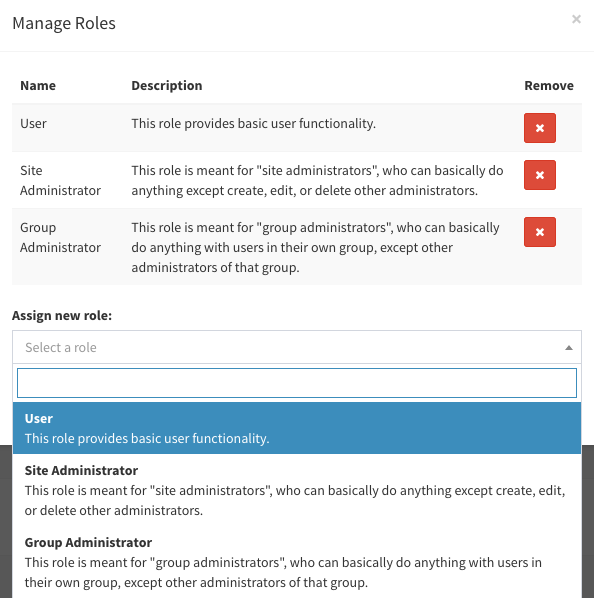
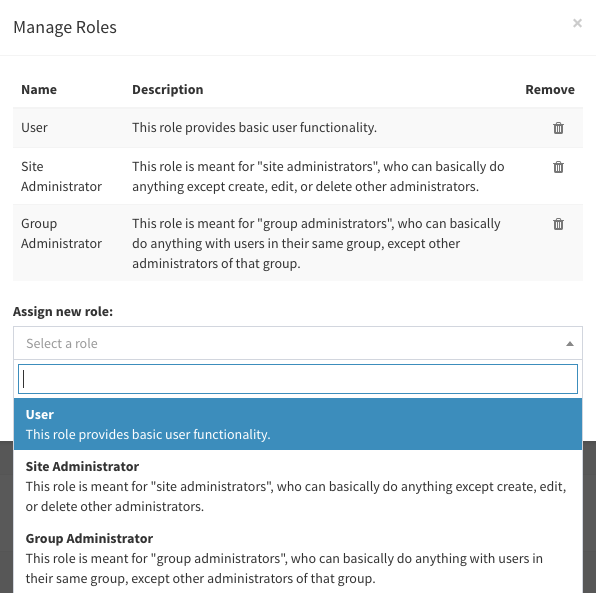
Document ufCollections

diff --git a/09.client-side-code/02.components/03.collections/docs.md b/09.client-side-code/02.components/03.collections/docs.md
@@ -1,0 +1,242 @@
+---
+title: Collections
+metadata:
+    description: The ufCollection widget provides a convenient interface for associating related or child entities with a single parent entity.
+taxonomy:
+    category: docs
+---
+
+The `ufCollection` widget provides a convenient interface for associating related or child entities with a single parent entity.  For example, you might want to associate a user account with one or more roles, or add multiple phone numbers or addresses to an employee.
+
+![ufCollection widget as used for the "user role" management interface.](/images/uf-collection.png)
+
+## Basic usage
+
+The basic markup for a collection widget consists of a table "skeleton" and, optionally, a `select` control for adding preexisting items to the collection.  These are wrapped together inside some sort of container element.  For example:
+
+```
+<div id="myOwls">
+    <table class="table table-striped">
+        <thead>
+            <tr>
+                <th>Species</th>
+                <th>Name</th>
+                <th>Remove</th>
+            </tr>
+        </thead>
+        <tbody>
+        </tbody>
+    </table>
+    <div class="padding-bottom">
+        <label>Adopt an owl:</label>
+        <select class="form-control js-select-new" type="text" data-placeholder="Select an owl">
+        <option></option>
+        </select>
+    </div>
+</div>
+```
+
+The `select` control should have the class `js-select-new`, which tells `ufCollection` that we should add a new row to the collection whenever a selection is made.  Internally `ufCollection` uses the [select2](http://select2.github.io/) library to create a beautiful, searchable dropdown menu.
+
+You'll notice that the table contains an empty `tbody` element.  By default, `ufCollection` will add new rows to the table inside this `tbody`.  This can be overridden by setting the `rowContainer` option to some other DOM element.
+
+To initialize the widget, simply call the `ufCollection` method on your container element:
+
+```
+$('#myOwls').ufCollection({
+    dropdown: {
+        ajax: {
+            url: site.uri.public + '/api/owls'
+        }
+    },
+    dropdownTemplate: $('#member-owls-select-option').html(),
+    rowTemplate: $('#member-owls-row').html()
+});
+```
+
+A typical use case will involve the following parameters:
+
+### `dropdown`
+
+This parameter contains the options that should be passed in when `ufCollection` initializes the `select2` control.  For large, dynamic collections of options, you will probably want to provide an AJAX data source with the `ajax` subkey.
+
+`ufCollection` will expect JSON data from an AJAX source, in the same format as that returned by the [Data Sprunjer](/database/data-sprunjing).  In particular, it should have a `rows` key that contains the collection of selectable options:
+
+```
+{
+    "count": 2,
+    "count_filtered": 2,
+    "rows": [
+        {
+            "id": 11,
+            "species": "Bubo scandiacus",
+            "description": "Snowy owls are native to Arctic regions in North America and Eurasia. Males are almost all white, while females have more flecks of black plumage. Juvenile snowy owls have black feathers until they turn white. The snowy owl is a ground nester that predominantly hunts rodents."
+        },
+        {
+            "id": 8,
+            "species": "Megascops asio",
+            "description": "This species is native to most wooded environments of its distribution and, more so than any other owl in its range, has adapted well to manmade development, although it frequently avoids detection due to its strictly nocturnal habits."
+        }
+    ]
+}
+```
+
+If you would like to use an alternative format for your source data, you can override the `dropdown.ajax.processResults` callback option:
+
+```
+processResults: function (data, params) {
+    var suggestions = [];
+    // Process the data into dropdown options
+    if (data && data.rows) {
+        jQuery.each(data.rows, function(idx, row) {
+            suggestions.push(row);
+        });
+    }
+    return {
+        results: suggestions
+    };
+}
+```
+
+Notice that this callback must always return a JSON object with a `results` key.
+
+### `dropdownTemplate`
+
+`ufCollection` uses [Handlebars](http://handlebarsjs.com/), a Javascript templating engine, to render the options that will be displayed in the dropdown menu.  The `dropdownTemplate` parameter should contain a valid Handlebars template that `ufCollection` can render using the data returned by the AJAX request.
+
+Best practices are to define your Handlebars template somewhere else in your DOM, rather than directly passing in the template as a string.  For example, in your page's Twig template, you might have a `script` tag:
+
+```
+{# This contains a series of <script> blocks, each of which is a client-side Handlebars template.
+ # Note that these are NOT Twig templates, although the syntax is similar.  We wrap them in the `verbatim` tag,
+ # so that Twig will output them directly into the DOM instead of trying to treat them like Twig templates.
+ #
+ # These templates require handlebars-helpers.js, moment.js
+#}
+
+{% verbatim %}
+<script id="member-owls-select-option" type="text/x-handlebars-template">
+    <div>
+        <strong>
+            {{species}}
+        </strong>
+        <br>
+        {{description}}
+    </div>
+</script>
+{% endverbatim %}
+```
+
+Notice that we use the `type="text/x-handlebars-template"` attribute, which tells the browser that the `script` tag contains a Handlebars template rather than executable Javascript.  The syntax of the Handlebars template is very similar to Twig's, but don't be fooled!  The syntax for control structures (e.g. `if`, `for`) is very different in Handlebars.  You should consult their documentation for more help with this.
+
+We then retrieve the contents of the `script` tag using `$('#member-owls-select-option').html()` and pass this to our `ufCollection`.
+
+### `rowTemplate`
+
+The `rowTemplate` parameter is similar to `dropdownTemplate` but is used to render the rows for items that have been added to the collection.  For example, the Handlebars template might look like this:
+
+```
+{% verbatim %}
+<script id="member-owls-row" type="text/x-handlebars-template">
+    <tr class="uf-collection-row">
+        <td>
+            {{species}}
+            <input type="hidden" name="owls[{{ rownum }}][species_id]" value="{{id}}">
+        </td>
+        <td>
+            <input type="text" name="owls[{{ rownum }}][name]" value="{{name}}">
+            
+        </td>
+        <td>
+            <button type="button" class="btn btn-link btn-trash js-delete-row pull-right" title="Delete"> <i class="fa fa-trash"></i> </button>
+        </td>
+    </tr>
+</script>
+{% endverbatim %}
+```
+
+Some important features of the row template:
+
+- The template should contain a single `tr` element with the `uf-collection-row` class.
+- The last column of your row should be a "delete" button, allowing the user to remove associations.  You may style this button however you like, but it needs to have the `js-delete-row` class for `ufCollection` to bind the delete event.
+- You should have a hidden `input` control in each row, that contains the `id` for the element associated with that row.
+- The user can add additional information to each row via additional controls (`input`, `select`, etc).
+- We recommend submitting the entire collection under a single top-level `name` attribute.  You can then use the `rownum` placeholder to index the elements of this key, and under that, the individual properties of the row.
+
+For example, the submitted data from this collection might end up looking something like:
+
+```
+owls: {
+  1: {
+    species_id: 5,
+    name: "Fluffers"
+  },
+  2: {
+    species_id: 2,
+    name: "Slasher"
+  },
+  ...
+}
+```
+
+This will make it easy to parse the submitted data in PHP on the server side.
+
+## Free-text mode
+
+If you want to allow the client to add arbitrary rows of data, rather than preselecting them from a dropdown, you can set the `useDropdown` property of `ufCollection` to `false`.  In this case, your collection markup will look much simpler:
+
+```
+<div id="#memberPhones">
+    <table class="table table-condensed">
+        <thead>
+            <tr>
+                <th>Label</th>
+                <th>Number</th>
+                <th>Remove</th>
+            </tr>
+        </thead>
+        <tbody>
+        </tbody>
+    </table>
+</div>
+```
+
+Notice that we no longer need to add a `select` control.  This also means that we don't need a `dropdownTemplate`.  However, we will need a `rowTemplate`:
+
+```
+{% verbatim %}
+<script id="member-phones-row" type="text/x-handlebars-template">
+    <tr class="uf-collection-row">
+        <td>
+            <div class="input-group">
+                <span class="input-group-addon"><i class="fa fa-phone fa-fw"></i></span>
+                <input type="text" class="form-control" name="phones[{{ rownum }}][label]" value="{{label}}" placeholder="Label">
+            </div>
+        </td>
+        <td>
+            <input type="text" class="form-control" name="phones[{{ rownum }}][number]" value="{{phone}}" placeholder="Number">
+        </td>
+        <td>
+            <button type="button" class="btn btn-link btn-trash js-delete-row pull-right" title="Delete"> <i class="fa fa-trash"></i> </button>
+        </td>
+    </tr>
+</script>
+{% endverbatim %}
+```
+
+Initialization would then look something like:
+
+```
+$('#memberPhones').ufCollection({
+    useDropdown: false,
+    rowTemplate: $('#member-phones-row').html()
+});
+```
+
+In free-text mode, a new empty row will automatically be added below the last row that has been "touched".  A row is "touched" whenever it is brought into focus, or when it is programmatically added using the `addRow` method.  Thus, this ensures that the user can always add another row of information without needing to click an "add" button.
+
+![ufCollection widget as used for a collection of user's phone numbers.](/images/uf-collection-free-text.png)
+
+## Methods, events, and options
+
+Coming soon!

diff --git a/09.client-side-code/01.overview/docs.md b/09.client-side-code/01.overview/docs.md
@@ -28,11 +28,13 @@ Fetches and renders alerts from the [alert stream](/routes-and-controllers/alert
 
 ### ufCollection
 
-A client-side widget that allows you to easily attach/detach related entities in a one-to-many relationship by selecting them from a dropdown menu.
+A client-side widget that allows you to easily associate related entities in a one-to-many or many-to-many relationship by selecting them from a dropdown menu.
 
 For example, both the "user roles" and "role permissions" interfaces use this plugin:
 
 ![ufCollection widget as used for the "user role" management interface.](/images/uf-collection.png)
+
+See the documentation on [collections](/client-side-code/components/collections) for more information on using this plugin.
 
 ### ufCopy
 